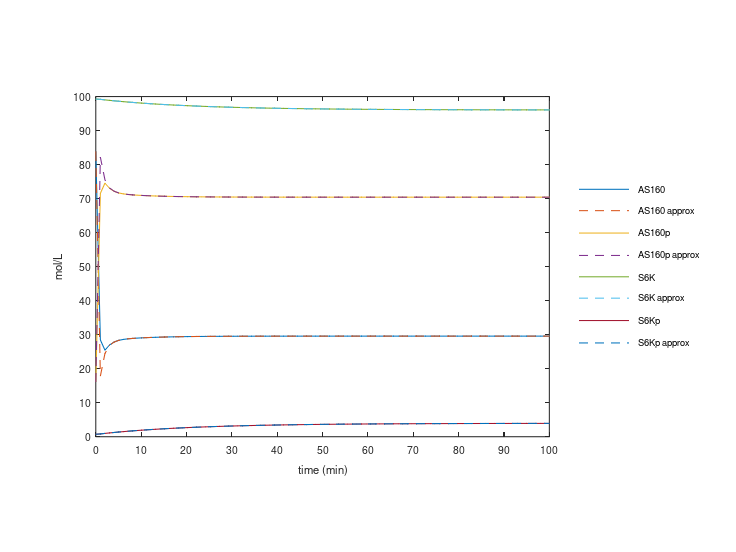
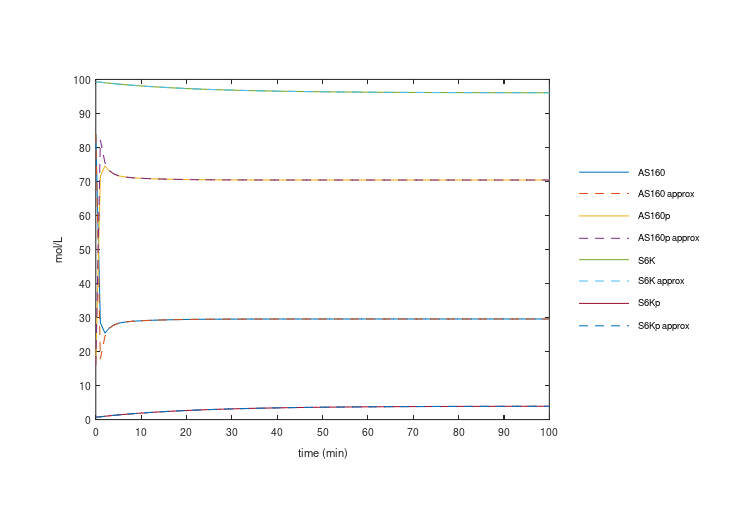
Add files via upload

diff --git a/Brännmark (Octave)/inres.m b/Brännmark (Octave)/inres.m
@@ -29,15 +29,15 @@ function inres()
 	% Initial values
 	%    - Variables in the comments are the ones used in CKRIS research
 	x0 = zeros(31,1);             % Originally just 27 species
-	x0(1) = 99.8737104842408;     % X2  = IR
-	x0(2) = 0.00186253217635894;  % X4  = IRp
-	x0(3) = 0.0;                  % X3  = IRins
-	x0(4) = 0.0188430465801578;   % X7  = IRip
-	x0(5) = 0.105583925473107;    % X6  = IRi
-	x0(6) = 82.9671997523599;     % X9  = IRS1
-	x0(7) = 0.00119481841136737;  % X10 = IRS1p
-	x0(8) = 0.327454355438396;    % X22 = IRS1p307
-	x0(9) = 16.7041510257561;     % X23 = IRS1307
+	x0(1)  = 99.8737104842408;    % X2  = IR
+	x0(2)  = 0.00186253217635894; % X4  = IRp
+	x0(3)  = 0.0;                 % X3  = IRins
+	x0(4)  = 0.0188430465801578;  % X7  = IRip
+	x0(5)  = 0.105583925473107;   % X6  = IRi
+	x0(6)  = 82.9671997523599;    % X9  = IRS1
+	x0(7)  = 0.00119481841136737; % X10 = IRS1p
+	x0(8)  = 0.327454355438396;   % X22 = IRS1p307
+	x0(9)  = 16.7041510257561;    % X23 = IRS1307
 	x0(10) = 99.9983336594667;    % X24 = X
 	x0(11) = 0.00166634053318549; % X25 = Xp
 	x0(12) = 68.1806649661901;    % X26 = PKB
@@ -94,51 +94,51 @@ function xdot = f(x,t)
 	
 	% Parameters
 	%    - Comments refer to variables used in Braennmark et al
-	k1 = 0.6331*10;    % k1a
-	k2 = 0.03683;      % k1basal
-	k3 = 0.8768;       % k1c
-	k4 = 31.01;        % k1d
-	k5 = 1840.0;       % k1f
-	k6 = 1944.0;       % k1g
-	k7 = 0.5471;       % k1r
-	k8 = 3.227;        % k2a
-	k9 = 3424.0;       % k2b
-	k10 = 5759.0;      % k2c
-	k11 = 280.8;       % k2d
-	k12 = 2.913;       % k2f
-	k13 = 0.04228;     % k2basal
-	k14 = 0.2671;      % k2g
-	k15 = 0.001377;    % k3a
-	k16 = 0.09876;     % k3b
-	k17 = 5790.0;      % k4a
-	k18 = 34.8;        % k4b
-	k19 = 4.456;       % k4c
-	k20 = 42.84;       % k4e
-	k21 = 143.6;       % k4f
-	k22 = 0.5361;      % k4h
-	k23 = 1.842;       % k5a1
-	k24 = 0.05506;     % k5a2
-	k25 = 24.83;       % k5b
-	k26 = 0.08575;     % k5c
-	k27 = 1.06;        % k5d
-	k28 = 2.652;       % k6f1
-	k29 = 36.93;       % k6f2
-	k30 = 65.18;       % k6b
-	k31 = 50.98;       % k7f
-	k32 = 2286.0;      % k7b
-	k33 = 0.1298;      % k9f1
-	k34 = 0.04441;     % k9b1
-	k35 = 31.0;        % k9b2
-	k36 = 3.329;       % k9f2
-	km6 = 30.54;       % km6
-	km9 = 5873.0;      % km9
-	n6 = 2.137;        % n6
-	n9 = 0.9855;       % n9
+	k1   = 0.6331*10;           % k1a
+	k2   = 0.03683;             % k1basal
+	k3   = 0.8768;              % k1c
+	k4   = 31.01;               % k1d
+	k5   = 1840.0;              % k1f
+	k6   = 1944.0;              % k1g
+	k7   = 0.5471;              % k1r
+	k8   = 3.227;               % k2a
+	k9   = 3424.0;              % k2b
+	k10  = 5759.0;              % k2c
+	k11  = 280.8;               % k2d
+	k12  = 2.913;               % k2f
+	k13  = 0.04228;             % k2basal
+	k14  = 0.2671;              % k2g
+	k15  = 0.001377;            % k3a
+	k16  = 0.09876;             % k3b
+	k17  = 5790.0;              % k4a
+	k18  = 34.8;                % k4b
+	k19  = 4.456;               % k4c
+	k20  = 42.84;               % k4e
+	k21  = 143.6;               % k4f
+	k22  = 0.5361;              % k4h
+	k23  = 1.842;               % k5a1
+	k24  = 0.05506;             % k5a2
+	k25  = 24.83;               % k5b
+	k26  = 0.08575;             % k5c
+	k27  = 1.06;                % k5d
+	k28  = 2.652;               % k6f1
+	k29  = 36.93;               % k6f2
+	k30  = 65.18;               % k6b
+	k31  = 50.98;               % k7f
+	k32  = 2286.0;              % k7b
+	k33  = 0.1298;              % k9f1
+	k34  = 0.04441;             % k9b1
+	k35  = 31.0;                % k9b2
+	k36  = 3.329;               % k9f2
+	km6  = 30.54;               % km6
+	km9  = 5873.0;              % km9
+	n6   = 2.137;               % n6
+	n9   = 0.9855;              % n9
 	% For approximation of Hill-type kinetics with power law
-	k29p = 1.1265;     % k9'
-	k33p = 2.6265e-05; % k33'
-	p29 = 0.8256;      % p29
-	q33 = 0.9716;      % q33
+	k29p = 1.12650518621011;    % k9'
+	k33p = 2.62554992841910e-5; % k33'
+	p29  = 0.825618172988512;   % p29
+	q33  = 0.971623996429415;   % q33
 	
 	% Reactions
 	%    - Comments refer to variables used in Braennmark et al
